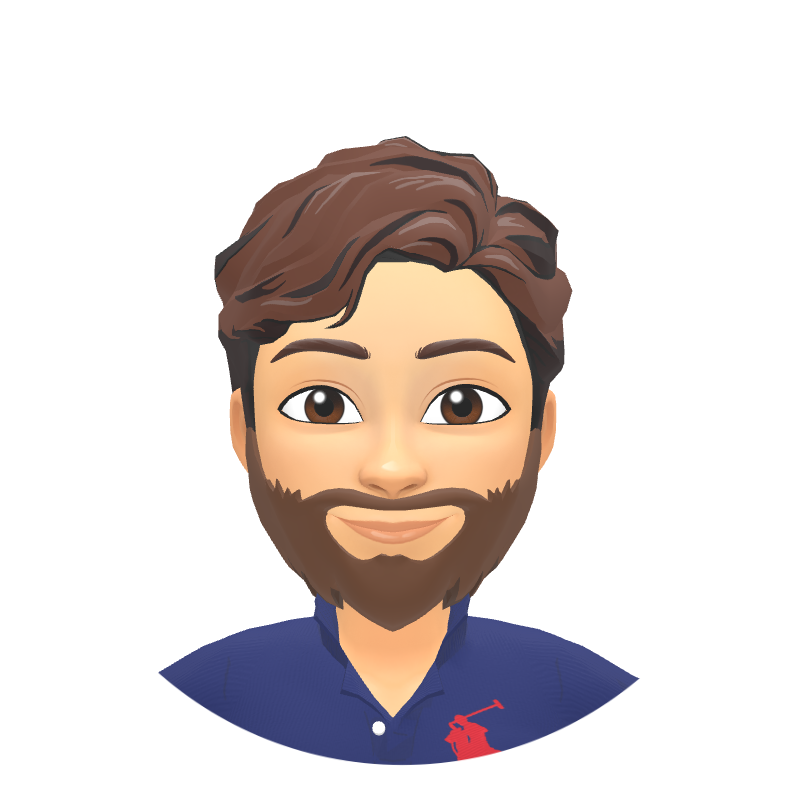
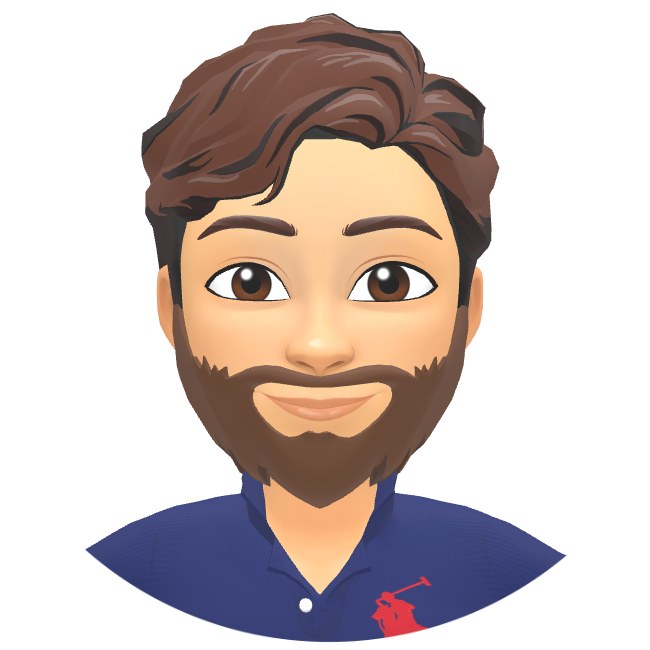
Other staffing updates

diff --git a/astro/src/content/staff/alexis.md b/astro/src/content/staff/alexis.md
@@ -7,7 +7,7 @@ cited:
 roles:
   default: Development Team
   development: Developer, Website
-current: false
+current: true
 photo:
   image: ../../images/staff/Alexis2.png
   alt: Woman with short brown hair, brown eyes, and dark rectangular glasses.

diff --git a/astro/src/content/staff/adam-fishbein.md b/astro/src/content/staff/adam-fishbein.md
@@ -7,7 +7,7 @@ cited:
   middle: R.
   last: Fishbein, MPA
 photo:
-  image: ../../images/staff/AdamF_headshot.png
+  image: ../../images/staff/3d/AdamF_headshot.png
 roles:
   default: Content Team
   content: Contributor

diff --git a/astro/src/content/staff/jasmine-jordan.md b/astro/src/content/staff/jasmine-jordan.md
@@ -8,5 +8,5 @@ roles:
   default: Video Editor
   podcasts: Video Editor
 photo:
-  image: ../../images/staff/JasmineJ_headshot.png
+  image: ../../images/staff/3d/JasmineJ_headshot.png
 ---

diff --git a/astro/src/content/staff/maria-christina.md b/astro/src/content/staff/maria-christina.md
@@ -5,6 +5,7 @@ name:
 roles:
   default: UX Researcher, ta11y
   ux: UX Researcher, ta11y
+current: false
 links:
   linkedin: https://www.linkedin.com/in/mariachristinaantoniou/
 ---

diff --git a/astro/src/content/staff/paulo-morales.md b/astro/src/content/staff/paulo-morales.md
@@ -8,4 +8,5 @@ cited:
 roles:
   default: Video Editor, Day in the Life
   communications: Video Editor, Day in the Life
+current: false
 ---

diff --git a/astro/src/content/staff/jasmine-murphy.md b/astro/src/content/staff/jasmine-murphy.md
@@ -7,4 +7,5 @@ cited:
 roles:
   default: Team Lead, Design System
   ux: Team Lead, Design System
+current: false
 ---

diff --git a/astro/src/content/staff/elianna-douglas.md b/astro/src/content/staff/elianna-douglas.md
@@ -7,4 +7,5 @@ cited:
 roles:
   default: Communications Team
   communications: Video Editor
+current: false
 ---
